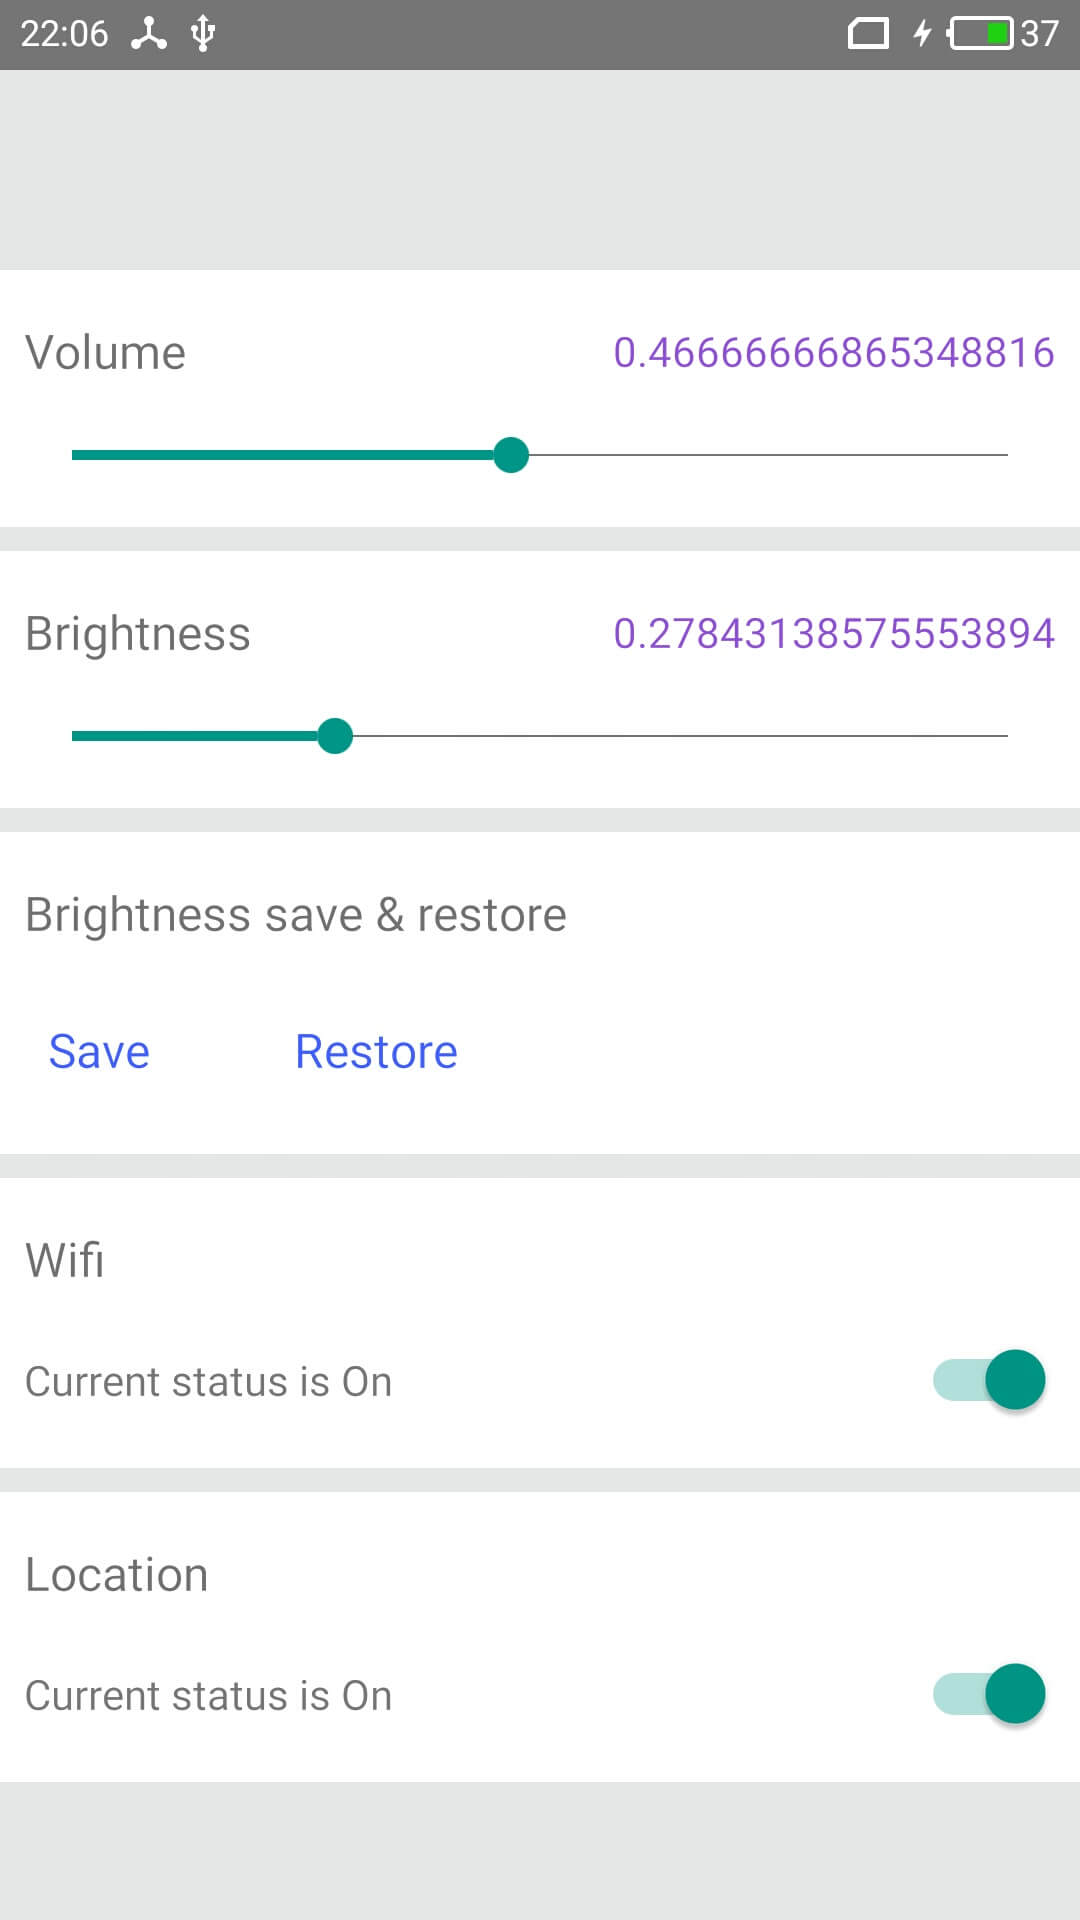
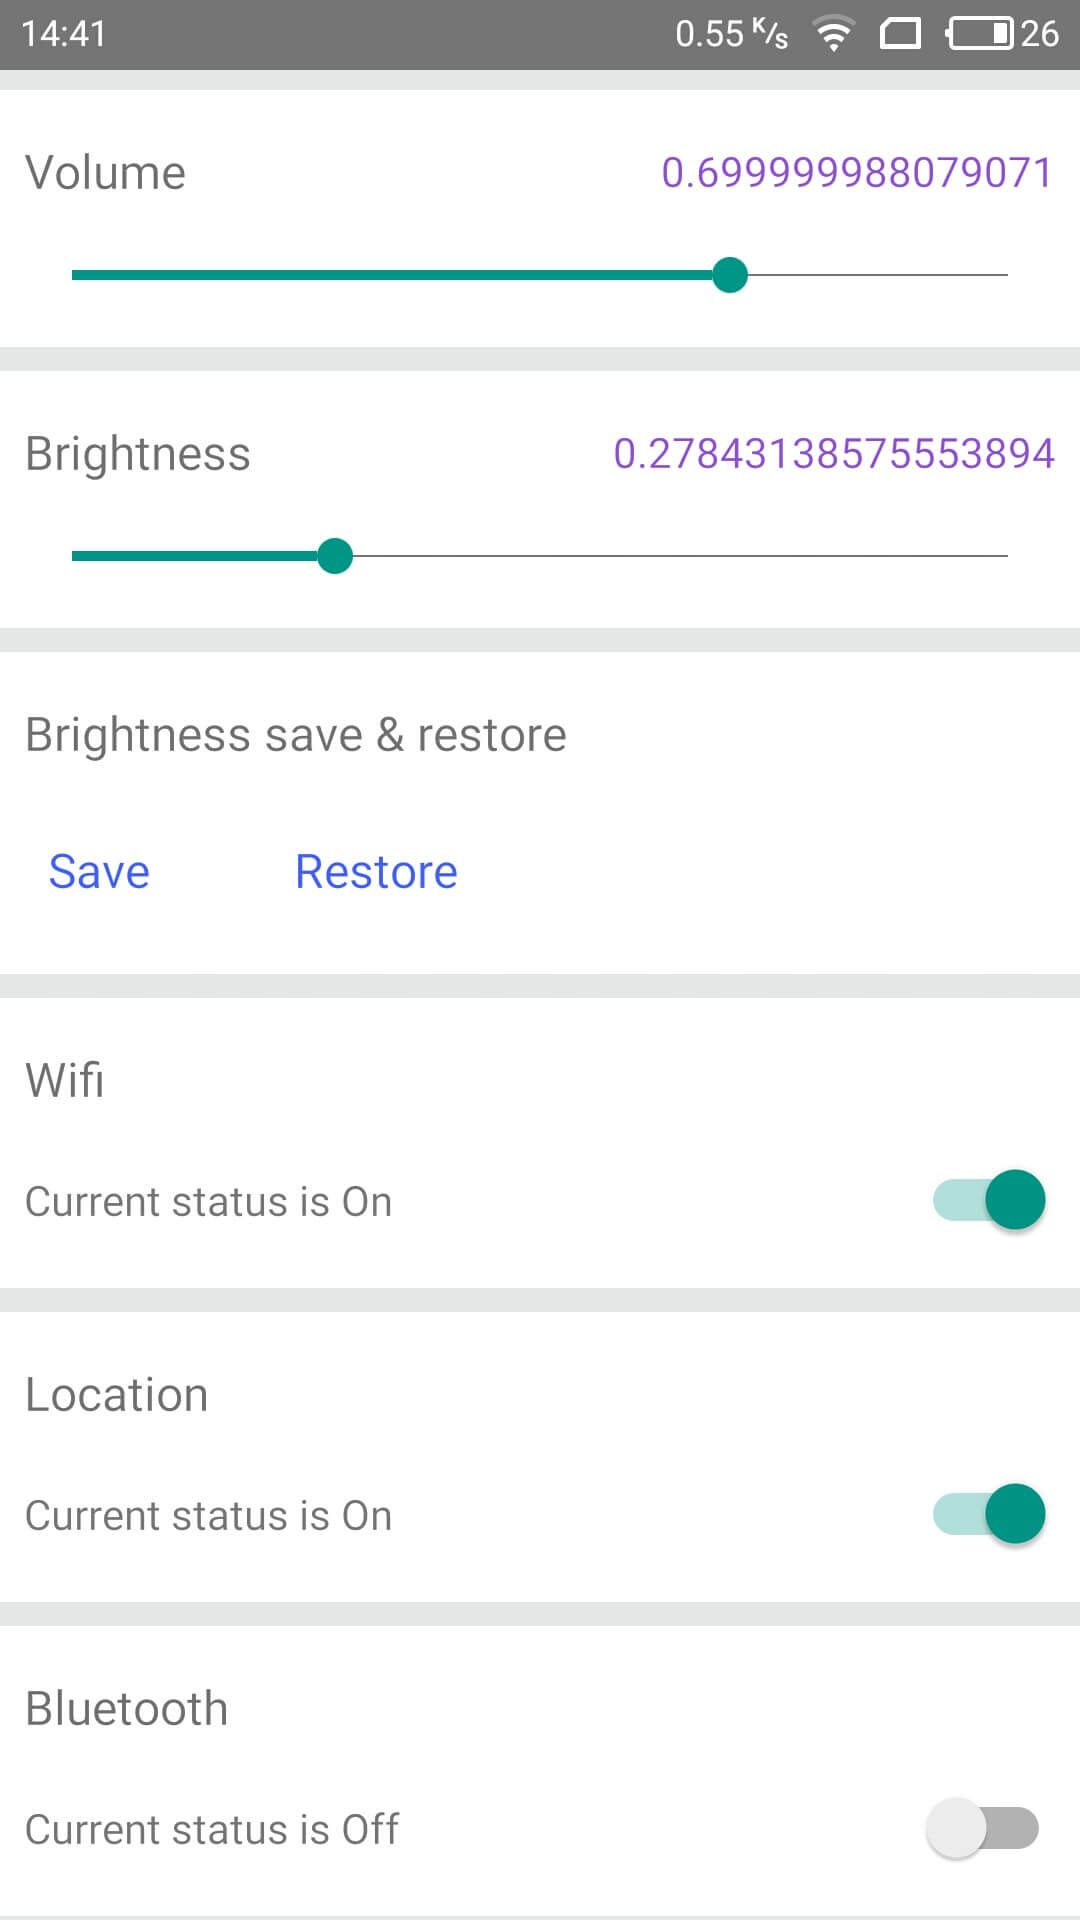
V1.0.6
for bluetooth

diff --git a/README.md b/README.md
@@ -7,10 +7,10 @@ It provides some system setting APIs for you. Support iOS and Android both.
 * Brightness
 * Wifi switch
 * Location
+* Bluetooth
 
 ### Next
 
-* Bluetooth
 * Requesting permissions at Run Time (for Android 6+)
 * System info
 
@@ -23,7 +23,7 @@ It provides some system setting APIs for you. Support iOS and Android both.
 
 ## Look like
 
-I really want to show the .gif, while it has no diffrence with .jpg for some system limit.
+I really want to show the .gif, while it has no difference with .jpg for some system limit.
 
 I strongly recommend you to run the example in real device to see how it works.
 

diff --git a/CHANGELOG.md b/CHANGELOG.md
@@ -1,10 +1,14 @@
+# V1.0.6
+**2017-07-23**
+
+support switching bluetooth state
+
 # V1.0.5
 **2017-07-15**
 
 support switching location state
 
 API change : `switchWifi()` and `switchWifiSilence()`, see [detail](https://github.com/c19354837/react-native-system-setting/wiki/API)
-
 
 # V1.0.4
 **2017-06-16**
